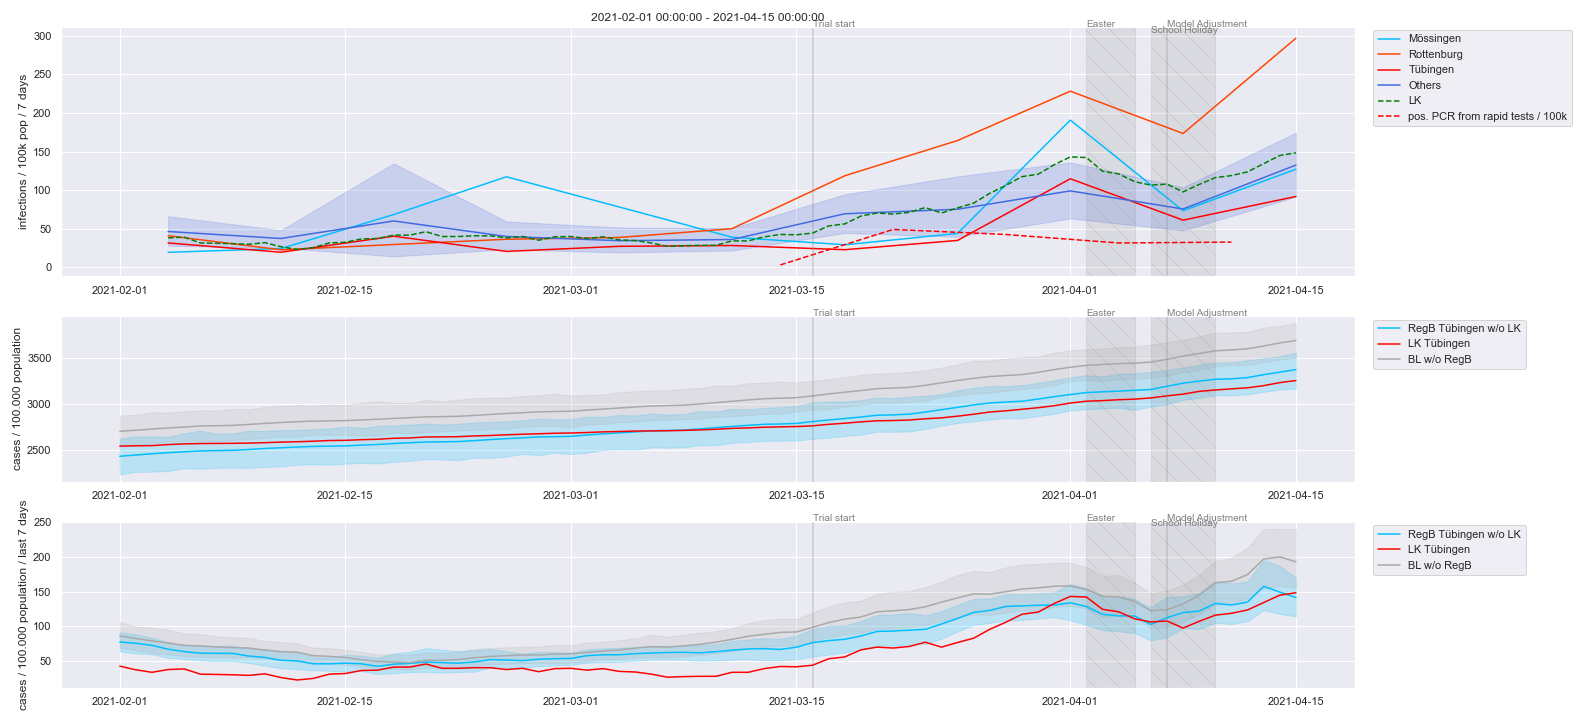
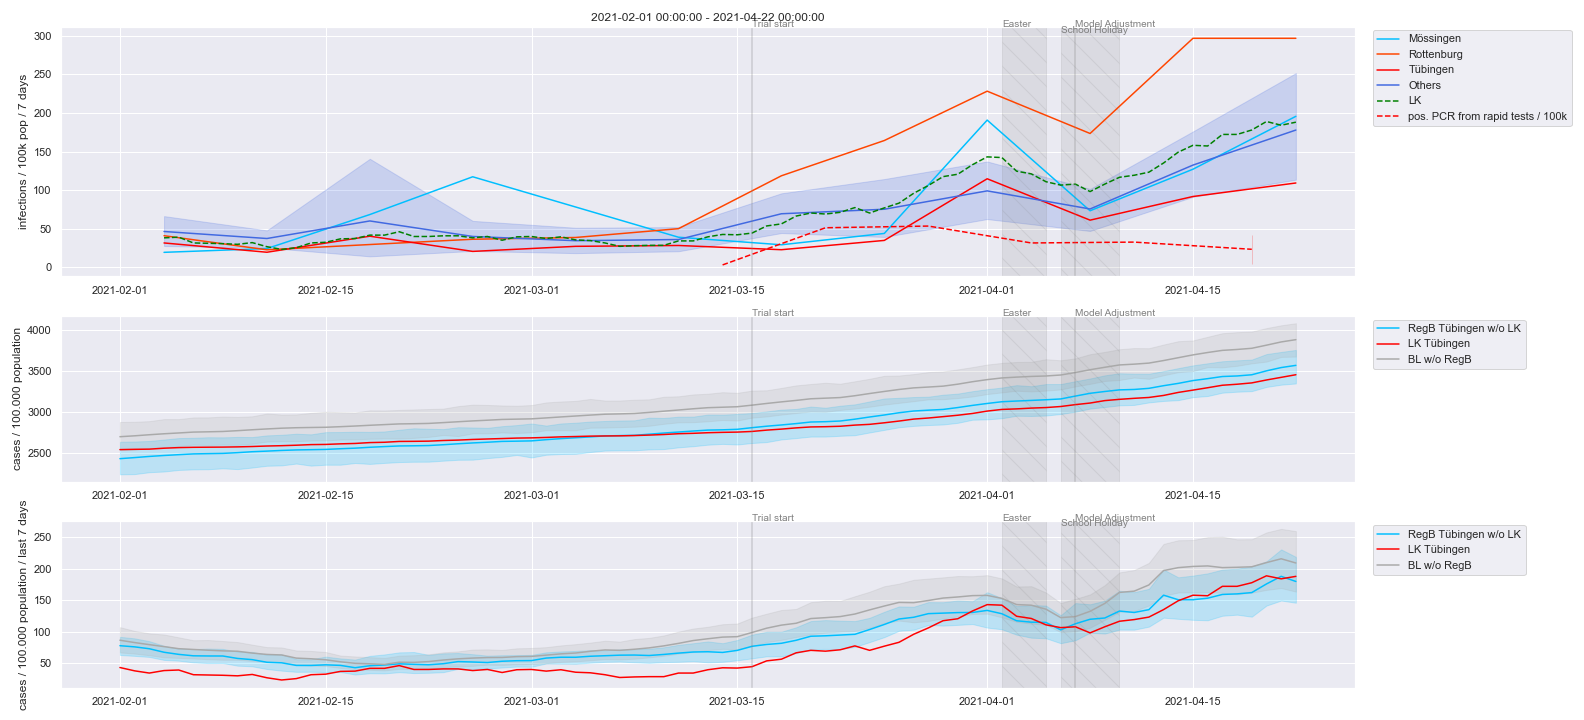
2021-04-23-15-31-43

diff --git a/README.md b/README.md
@@ -7,7 +7,7 @@ data: [Landratsamt Tübingen](https://www.kreis-tuebingen.de/17094149.html)
 
 *Disclaimer*: This data is automatically extracted from the PDFs uploaded by the Landratsamt and published as-is. Should you encounter errors please open an issue in the repository.
 
-data range: 2020-10-08 - 2021-04-15
+data range: 2020-10-08 - 2021-04-22
 
 Fields:
 - region: Always 'LK Tübingen'
